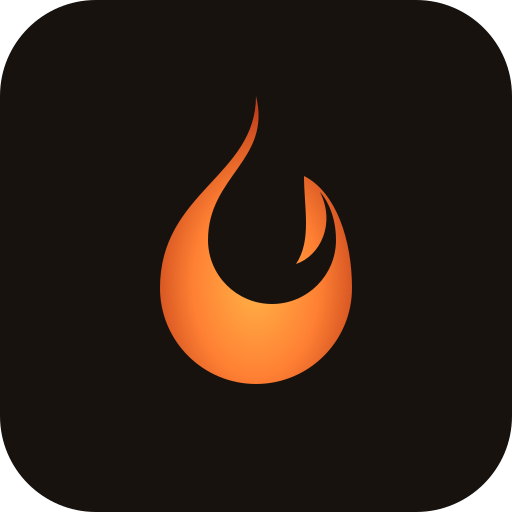
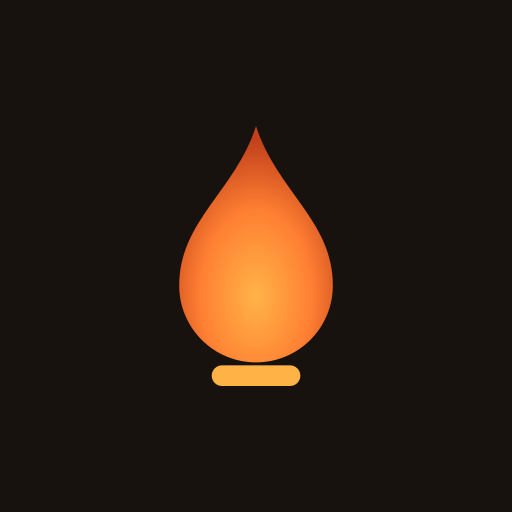
La marque de l'app : la flamme d'atelier, le titre et les icones PWA
Decision de JSB (30/09) : piste C retenue. favicon.svg, pwa-192, pwa-512 et apple-touch refaits depuis la meme flamme que la vitrine (affinee : une seule forme, une base posee). Titre de l'onglet : Braaise - l'assistant de l'atelier. Le nom court de l'ecran d'accueil reste Braaise.

diff --git a/vite.config.ts b/vite.config.ts
@@ -16,7 +16,7 @@ export default defineConfig({
       },
       includeAssets: ['favicon.svg', 'apple-touch-icon.png'],
       manifest: {
-        name: 'Braaise',
+        name: "Braaise — l'assistant de l'atelier",
         short_name: 'Braaise',
         description: "Braaise — l'assistant de l'atelier : dépôts, commandes, planning",
         lang: 'fr',

diff --git a/index.html b/index.html
@@ -15,7 +15,7 @@
       href="https://fonts.googleapis.com/css2?family=Fraunces:opsz,wght@9..144,500;9..144,600&family=Inter:wght@400;500;600&display=swap"
       rel="stylesheet"
     />
-    <title>Braaise</title>
+    <title>Braaise — l'assistant de l'atelier</title>
   </head>
   <body>
     <div id="root"></div>
